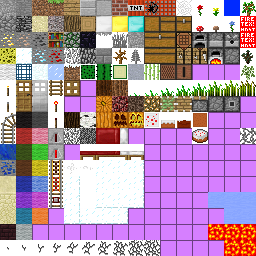
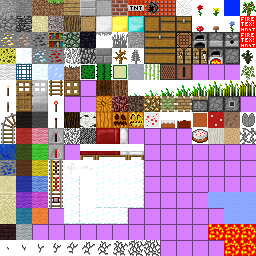
Swamp biome V2

Changed region(s): [[0.8125, 0.4375, 1.0, 0.5625]]

diff --git a/minecraft/net/minecraft/src/WorldGenBigMushroom.java b/minecraft/net/minecraft/src/WorldGenBigMushroom.java
@@ -1,0 +1,152 @@
+package net.minecraft.src;
+
+import java.util.Random;
+
+public class WorldGenBigMushroom extends WorldGenerator {
+    private int mushroomType = -1;
+
+    public WorldGenBigMushroom(int i1) {
+        this.mushroomType = i1;
+    }
+
+    public boolean generate(World world1, Random random2, int i3, int i4, int i5) {
+        int i6 = random2.nextInt(2);
+        if(this.mushroomType >= 0) {
+            i6 = this.mushroomType;
+        }
+
+        int i7 = random2.nextInt(3) + 4;
+        boolean z8 = true;
+        if(i4 >= 1 && i4 + i7 + 1 < 256) {
+            int i9;
+            int i11;
+            int i12;
+            int i13;
+            for(i9 = i4; i9 <= i4 + 1 + i7; ++i9) {
+                byte b10 = 3;
+                if(i9 == i4) {
+                    b10 = 0;
+                }
+
+                for(i11 = i3 - b10; i11 <= i3 + b10 && z8; ++i11) {
+                    for(i12 = i5 - b10; i12 <= i5 + b10 && z8; ++i12) {
+                        if(i9 >= 0 && i9 < 256) {
+                            i13 = world1.getBlockId(i11, i9, i12);
+                            if(i13 != 0 && i13 != Block.leaves.blockID) {
+                                z8 = false;
+                            }
+                        } else {
+                            z8 = false;
+                        }
+                    }
+                }
+            }
+
+            if(!z8) {
+                return false;
+            } else {
+                i9 = world1.getBlockId(i3, i4 - 1, i5);
+                if(i9 != Block.dirt.blockID && i9 != Block.grass.blockID) {
+                    return false;
+                } else if(!Block.mushroomBrown.canPlaceBlockAt(world1, i3, i4, i5)) {
+                    return false;
+                } else {
+                    world1.setBlockAndMetadata(i3, i4 - 1, i5, Block.dirt.blockID, 0);
+                    int i16 = i4 + i7;
+                    if(i6 == 1) {
+                        i16 = i4 + i7 - 3;
+                    }
+
+                    for(i11 = i16; i11 <= i4 + i7; ++i11) {
+                        i12 = 1;
+                        if(i11 < i4 + i7) {
+                            ++i12;
+                        }
+
+                        if(i6 == 0) {
+                            i12 = 3;
+                        }
+
+                        for(i13 = i3 - i12; i13 <= i3 + i12; ++i13) {
+                            for(int i14 = i5 - i12; i14 <= i5 + i12; ++i14) {
+                                int i15 = 5;
+                                if(i13 == i3 - i12) {
+                                    --i15;
+                                }
+
+                                if(i13 == i3 + i12) {
+                                    ++i15;
+                                }
+
+                                if(i14 == i5 - i12) {
+                                    i15 -= 3;
+                                }
+
+                                if(i14 == i5 + i12) {
+                                    i15 += 3;
+                                }
+
+                                if(i6 == 0 || i11 < i4 + i7) {
+                                    if((i13 == i3 - i12 || i13 == i3 + i12) && (i14 == i5 - i12 || i14 == i5 + i12)) {
+                                        continue;
+                                    }
+
+                                    if(i13 == i3 - (i12 - 1) && i14 == i5 - i12) {
+                                        i15 = 1;
+                                    }
+
+                                    if(i13 == i3 - i12 && i14 == i5 - (i12 - 1)) {
+                                        i15 = 1;
+                                    }
+
+                                    if(i13 == i3 + (i12 - 1) && i14 == i5 - i12) {
+                                        i15 = 3;
+                                    }
+
+                                    if(i13 == i3 + i12 && i14 == i5 - (i12 - 1)) {
+                                        i15 = 3;
+                                    }
+
+                                    if(i13 == i3 - (i12 - 1) && i14 == i5 + i12) {
+                                        i15 = 7;
+                                    }
+
+                                    if(i13 == i3 - i12 && i14 == i5 + (i12 - 1)) {
+                                        i15 = 7;
+                                    }
+
+                                    if(i13 == i3 + (i12 - 1) && i14 == i5 + i12) {
+                                        i15 = 9;
+                                    }
+
+                                    if(i13 == i3 + i12 && i14 == i5 + (i12 - 1)) {
+                                        i15 = 9;
+                                    }
+                                }
+
+                                if(i15 == 5 && i11 < i4 + i7) {
+                                    i15 = 0;
+                                }
+
+                                if((i15 != 0 || i4 >= i4 + i7 - 1) && !Block.opaqueCubeLookup[world1.getBlockId(i13, i11, i14)]) {
+                                    world1.setBlockAndMetadata(i13, i11, i14, Block.mushroomCapBrown.blockID + i6, i15);
+                                }
+                            }
+                        }
+                    }
+
+                    for(i11 = 0; i11 < i7; ++i11) {
+                        i12 = world1.getBlockId(i3, i4 + i11, i5);
+                        if(!Block.opaqueCubeLookup[i12]) {
+                            world1.setBlockAndMetadata(i3, i4 + i11, i5, Block.mushroomCapBrown.blockID + i6, 10);
+                        }
+                    }
+
+                    return true;
+                }
+            }
+        } else {
+            return false;
+        }
+    }
+}

diff --git a/minecraft/net/minecraft/src/RenderBlocks.java b/minecraft/net/minecraft/src/RenderBlocks.java
@@ -93,7 +93,42 @@ public class RenderBlocks {
 	public boolean renderBlockByRenderType(Block block1, int i2, int i3, int i4) {
 		int i5 = block1.getRenderType();
 		block1.setBlockBoundsBasedOnState(this.blockAccess, i2, i3, i4);
-		return i5 == 0 ? this.renderStandardBlock(block1, i2, i3, i4) : (i5 == 4 ? this.renderBlockFluids(block1, i2, i3, i4) : (i5 == 13 ? this.renderBlockCactus(block1, i2, i3, i4) : (i5 == 1 ? this.renderBlockReed(block1, i2, i3, i4) : (i5 == 6 ? this.renderBlockCrops(block1, i2, i3, i4) : (i5 == 2 ? this.renderBlockTorch(block1, i2, i3, i4) : (i5 == 3 ? this.renderBlockFire(block1, i2, i3, i4) : (i5 == 5 ? this.renderBlockRedstoneWire(block1, i2, i3, i4) : (i5 == 8 ? this.renderBlockLadder(block1, i2, i3, i4) : (i5 == 7 ? this.renderBlockDoor(block1, i2, i3, i4) : (i5 == 9 ? this.renderBlockMinecartTrack((BlockRail)block1, i2, i3, i4) : (i5 == 10 ? this.renderBlockStairs(block1, i2, i3, i4) : (i5 == 11 ? this.renderBlockFence(block1, i2, i3, i4) : (i5 == 12 ? this.renderBlockLever(block1, i2, i3, i4) : (i5 == 14 ? this.renderBlockBed(block1, i2, i3, i4) : (i5 == 15 ? this.renderBlockRepeater(block1, i2, i3, i4) : (i5 == 16 ? this.func_31074_b(block1, i2, i3, i4, false) : (i5 == 17 ? this.func_31080_c(block1, i2, i3, i4, true) : (i5 == 20 ? this.renderBlockVine(block1, i2, i3, i4) : false))))))))))))))))));
+		return i5 == 0 ? this.renderStandardBlock(block1, i2, i3, i4) : (i5 == 4 ? this.renderBlockFluids(block1, i2, i3, i4) : (i5 == 13 ? this.renderBlockCactus(block1, i2, i3, i4) : (i5 == 1 ? this.renderBlockReed(block1, i2, i3, i4) : (i5 == 6 ? this.renderBlockCrops(block1, i2, i3, i4) : (i5 == 2 ? this.renderBlockTorch(block1, i2, i3, i4) : (i5 == 3 ? this.renderBlockFire(block1, i2, i3, i4) : (i5 == 5 ? this.renderBlockRedstoneWire(block1, i2, i3, i4) : (i5 == 8 ? this.renderBlockLadder(block1, i2, i3, i4) : (i5 == 7 ? this.renderBlockDoor(block1, i2, i3, i4) : (i5 == 9 ? this.renderBlockMinecartTrack((BlockRail)block1, i2, i3, i4) : (i5 == 10 ? this.renderBlockStairs(block1, i2, i3, i4) : (i5 == 11 ? this.renderBlockFence(block1, i2, i3, i4) : (i5 == 12 ? this.renderBlockLever(block1, i2, i3, i4) : (i5 == 14 ? this.renderBlockBed(block1, i2, i3, i4) : (i5 == 15 ? this.renderBlockRepeater(block1, i2, i3, i4) : (i5 == 16 ? this.func_31074_b(block1, i2, i3, i4, false) : (i5 == 17 ? this.func_31080_c(block1, i2, i3, i4, true) : (i5 == 20 ? this.renderBlockVine(block1, i2, i3, i4) : (i5 == 23 ? this.renderBlockLilyPad(block1, i2, i3, i4) : false)))))))))))))))))));
+	}
+
+	public boolean renderBlockLilyPad(Block block1, int i2, int i3, int i4) {
+		Tessellator tessellator5 = Tessellator.instance;
+		int i6 = block1.blockIndexInTexture;
+		if(this.overrideBlockTexture >= 0) {
+			i6 = this.overrideBlockTexture;
+		}
+
+		int i7 = (i6 & 15) << 4;
+		int i8 = i6 & 240;
+		float f9 = 0.015625F;
+		double d10 = (double)((float)i7 / 256.0F);
+		double d12 = (double)(((float)i7 + 15.99F) / 256.0F);
+		double d14 = (double)((float)i8 / 256.0F);
+		double d16 = (double)(((float)i8 + 15.99F) / 256.0F);
+		long j18 = (long)(i2 * 3129871) ^ (long)i4 * 116129781L ^ (long)i3;
+		j18 = j18 * j18 * 42317861L + j18 * 11L;
+		int i20 = (int)(j18 >> 16 & 3L);
+		//tessellator5.setBrightness(block1.getMixedBrightnessForBlock(this.blockAccess, i2, i3, i4));
+		float f21 = (float)i2 + 0.5F;
+		float f22 = (float)i4 + 0.5F;
+		float f23 = (float)(i20 & 1) * 0.5F * (float)(1 - i20 / 2 % 2 * 2);
+		float f24 = (float)(i20 + 1 & 1) * 0.5F * (float)(1 - (i20 + 1) / 2 % 2 * 2);
+		tessellator5.setColorOpaque_I(block1.getBlockColor());
+		tessellator5.addVertexWithUV((double)(f21 + f23 - f24), (double)((float)i3 + f9), (double)(f22 + f23 + f24), d10, d14);
+		tessellator5.addVertexWithUV((double)(f21 + f23 + f24), (double)((float)i3 + f9), (double)(f22 - f23 + f24), d12, d14);
+		tessellator5.addVertexWithUV((double)(f21 - f23 + f24), (double)((float)i3 + f9), (double)(f22 - f23 - f24), d12, d16);
+		tessellator5.addVertexWithUV((double)(f21 - f23 - f24), (double)((float)i3 + f9), (double)(f22 + f23 - f24), d10, d16);
+		tessellator5.setColorOpaque_I((block1.getBlockColor() & 16711422) >> 1);
+		tessellator5.addVertexWithUV((double)(f21 - f23 - f24), (double)((float)i3 + f9), (double)(f22 + f23 - f24), d10, d16);
+		tessellator5.addVertexWithUV((double)(f21 - f23 + f24), (double)((float)i3 + f9), (double)(f22 - f23 - f24), d12, d16);
+		tessellator5.addVertexWithUV((double)(f21 + f23 + f24), (double)((float)i3 + f9), (double)(f22 - f23 + f24), d12, d14);
+		tessellator5.addVertexWithUV((double)(f21 + f23 - f24), (double)((float)i3 + f9), (double)(f22 + f23 + f24), d10, d14);
+		return true;
 	}
 
 	public boolean renderBlockVine(Block block1, int i2, int i3, int i4) {

diff --git a/minecraft/net/minecraft/src/BlockLilyPad.java b/minecraft/net/minecraft/src/BlockLilyPad.java
@@ -1,0 +1,42 @@
+package net.minecraft.src;
+
+public class BlockLilyPad extends BlockFlower {
+    protected BlockLilyPad(int i1, int i2) {
+        super(i1, i2);
+        float f3 = 0.5F;
+        float f4 = 0.015625F;
+        this.setBlockBounds(0.5F - f3, 0.0F, 0.5F - f3, 0.5F + f3, f4, 0.5F + f3);
+    }
+
+    public int getRenderType() {
+        return 23;
+    }
+
+    public AxisAlignedBB getCollisionBoundingBoxFromPool(World world1, int i2, int i3, int i4) {
+        return AxisAlignedBB.getBoundingBoxFromPool((double)i2 + this.minX, (double)i3 + this.minY, (double)i4 + this.minZ, (double)i2 + this.maxX, (double)i3 + this.maxY, (double)i4 + this.maxZ);
+    }
+
+    public int getBlockColor() {
+        return 2129968;
+    }
+
+    public int getRenderColor(int i1) {
+        return 2129968;
+    }
+
+    public boolean canPlaceBlockAt(World world1, int i2, int i3, int i4) {
+        return super.canPlaceBlockAt(world1, i2, i3, i4);
+    }
+
+    public int colorMultiplier(IBlockAccess iBlockAccess1, int i2, int i3, int i4) {
+        return 2129968;
+    }
+
+    protected boolean canThisPlantGrowOnThisBlockID(int i1) {
+        return i1 == Block.waterStill.blockID;
+    }
+
+    public boolean canBlockStay(World world1, int i2, int i3, int i4) {
+        return i3 >= 0 && i3 < 256 ? world1.getBlockMaterial(i2, i3 - 1, i4) == Material.water && world1.getBlockMetadata(i2, i3 - 1, i4) == 0 : false;
+    }
+}

diff --git a/minecraft/net/minecraft/src/BlockMushroomCap.java b/minecraft/net/minecraft/src/BlockMushroomCap.java
@@ -1,0 +1,29 @@
+package net.minecraft.src;
+
+import java.util.Random;
+
+public class BlockMushroomCap extends Block {
+    private int mushroomType;
+
+    public BlockMushroomCap(int i1, Material material2, int i3, int i4) {
+        super(i1, i3, material2);
+        this.mushroomType = i4;
+    }
+
+    public int getBlockTextureFromSideAndMetadata(int i1, int i2) {
+        return i2 == 10 && i1 > 1 ? this.blockIndexInTexture - 1 : (i2 >= 1 && i2 <= 9 && i1 == 1 ? this.blockIndexInTexture - 16 - this.mushroomType : (i2 >= 1 && i2 <= 3 && i1 == 2 ? this.blockIndexInTexture - 16 - this.mushroomType : (i2 >= 7 && i2 <= 9 && i1 == 3 ? this.blockIndexInTexture - 16 - this.mushroomType : ((i2 == 1 || i2 == 4 || i2 == 7) && i1 == 4 ? this.blockIndexInTexture - 16 - this.mushroomType : ((i2 == 3 || i2 == 6 || i2 == 9) && i1 == 5 ? this.blockIndexInTexture - 16 - this.mushroomType : (i2 == 14 ? this.blockIndexInTexture - 16 - this.mushroomType : (i2 == 15 ? this.blockIndexInTexture - 1 : this.blockIndexInTexture)))))));
+    }
+
+    public int quantityDropped(Random random1) {
+        int i2 = random1.nextInt(10) - 7;
+        if(i2 < 0) {
+            i2 = 0;
+        }
+
+        return i2;
+    }
+
+    public int idDropped(int i1, Random random2, int i3) {
+        return Block.mushroomBrown.blockID + this.mushroomType;
+    }
+}

diff --git a/minecraft/net/minecraft/src/Block.java b/minecraft/net/minecraft/src/Block.java
@@ -121,6 +121,9 @@ public class Block {
 	public static final Block stoneBrick = (new Block(98, 54, Material.rock)).setHardness(2.0F).setResistance(10.0F).setStepSound(soundStoneFootstep).setBlockName("stonebrick");
 	public static final Block vine = (new BlockVine(99)).setHardness(0.2F).setStepSound(soundGrassFootstep).setBlockName("vine");
 	public static final BlockFlower plantCyan = (BlockFlower)(new BlockFlower(100, 30)).setHardness(0.0F).setStepSound(soundGrassFootstep).setBlockName("cyanrose");
+	public static final Block mushroomCapBrown = (new BlockMushroomCap(101, Material.wood, 142, 0)).setHardness(0.2F).setStepSound(soundWoodFootstep).setBlockName("mushroom");
+	public static final Block mushroomCapRed = (new BlockMushroomCap(102, Material.wood, 142, 1)).setHardness(0.2F).setStepSound(soundWoodFootstep).setBlockName("mushroom");
+	public static final Block waterlily = (new BlockLilyPad(111, 127)).setHardness(0.0F).setStepSound(soundGrassFootstep).setBlockName("waterlily");
 	public int blockIndexInTexture;
 	public final int blockID;
 	protected float blockHardness;
@@ -169,6 +172,8 @@ public class Block {
 
 	protected void initializeBlock() {
 	}
+
+	public int getBlockColor() { return 0; }
 
 	protected Block(int i1, int i2, Material material3) {
 		this(i1, material3);

diff --git a/minecraft/net/minecraft/src/WorldGenSwamp.java b/minecraft/net/minecraft/src/WorldGenSwamp.java
@@ -101,6 +101,8 @@ public class WorldGenSwamp extends WorldGenerator {
                         }
                     }
 
+                    this.generateWaterlilies(world1, random2, i3, i4, i5);
+
                     return true;
                 } else {
                     return false;
@@ -123,6 +125,19 @@ public class WorldGenSwamp extends WorldGenerator {
 
             world1.setBlockAndMetadata(i2, i3, i4, Block.vine.blockID, i5);
             --i6;
+        }
+    }
+
+    private void generateWaterlilies(World world, Random random, int x, int y, int z) {
+        WorldGenWaterlily waterLilyGen = new WorldGenWaterlily();
+        for (int i = 0; i < 10; ++i) {
+            int randomX = x + random.nextInt(8) - random.nextInt(8);
+            int randomY = y + random.nextInt(4) - random.nextInt(4);
+            int randomZ = z + random.nextInt(8) - random.nextInt(8);
+
+            //if (world.getBlockId(randomX, randomY, randomZ) == Block.waterStill.blockID) {
+            waterLilyGen.generate(world, random, randomX, randomY, randomZ);
+            //}
         }
     }
 }

diff --git a/minecraft/net/minecraft/src/WorldGenWaterlily.java b/minecraft/net/minecraft/src/WorldGenWaterlily.java
@@ -1,0 +1,18 @@
+package net.minecraft.src;
+
+import java.util.Random;
+
+public class WorldGenWaterlily extends WorldGenerator {
+    public boolean generate(World world1, Random random2, int i3, int i4, int i5) {
+        for(int i6 = 0; i6 < 10; ++i6) {
+            int i7 = i3 + random2.nextInt(8) - random2.nextInt(8);
+            int i8 = i4 + random2.nextInt(4) - random2.nextInt(4);
+            int i9 = i5 + random2.nextInt(8) - random2.nextInt(8);
+            if(world1.isAirBlock(i7, i8, i9) && Block.waterlily.canPlaceBlockAt(world1, i7, i8, i9)) {
+                world1.setBlock(i7, i8, i9, Block.waterlily.blockID);
+            }
+        }
+
+        return true;
+    }
+}

diff --git a/minecraft/net/minecraft/src/BiomeGenSwamp.java b/minecraft/net/minecraft/src/BiomeGenSwamp.java
@@ -4,6 +4,7 @@ import java.util.Random;
 
 public class BiomeGenSwamp extends BiomeGenBase {
     public WorldGenerator getRandomWorldGenForTrees(Random random1) {
+        if(random1.nextInt(3) == 0) { return new WorldGenBigMushroom(-1); }
         return new WorldGenSwamp();
     }
 }

diff --git a/minecraft/net/minecraft/src/ChunkProviderGenerate.java b/minecraft/net/minecraft/src/ChunkProviderGenerate.java
@@ -425,7 +425,7 @@ public class ChunkProviderGenerate implements IChunkProvider {
 
 		// Affects AT LEAST number of trees
 		if(biomeGenBase6 == BiomeGenBase.swampland) {
-			i14 += i13 - 1;
+			i14 += i13;
 		}
 
 		if(biomeGenBase6 == BiomeGenBase.seasonalForest) {
